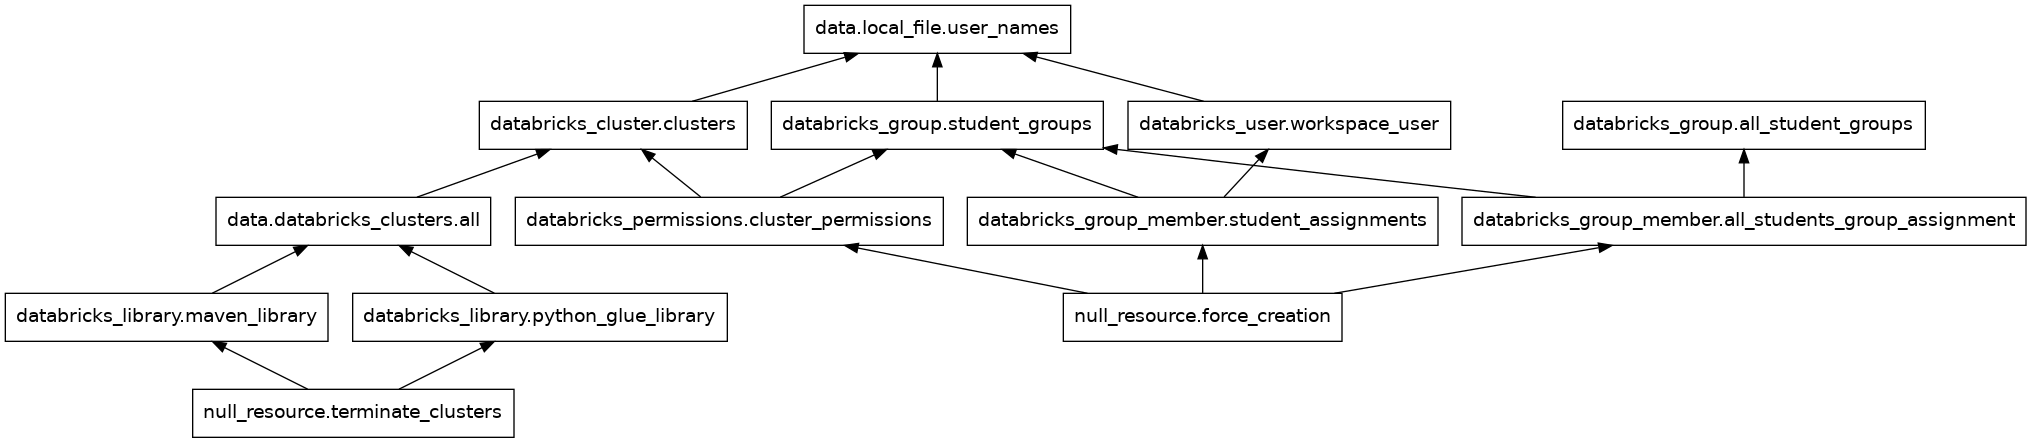
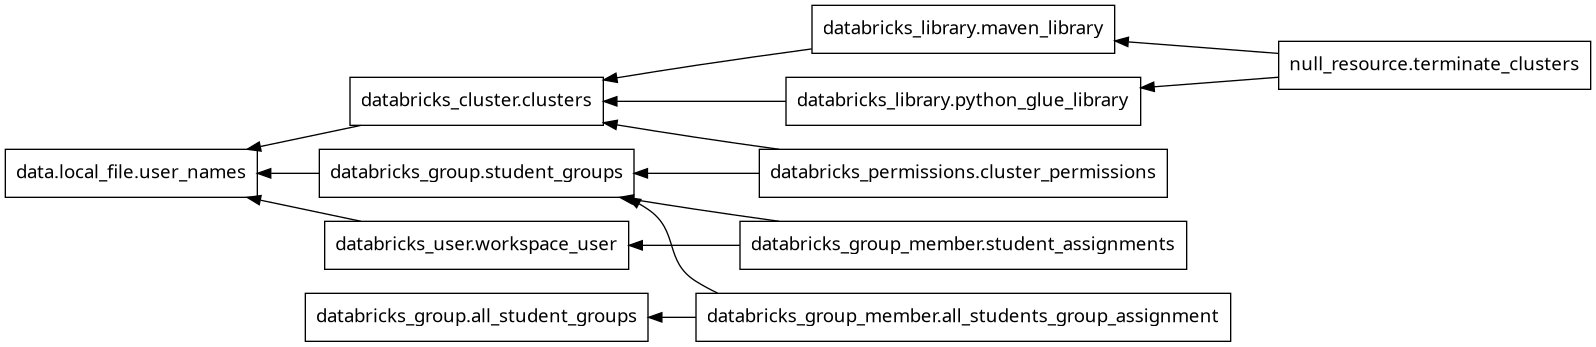
fixed terraform code:  better dependencies

diff --git a/terraform/dbr/readme.md b/terraform/dbr/readme.md
@@ -33,18 +33,24 @@ In practice, the group list is dynamic, so we need to be able to update the setu
 
 <!-- END doctoc generated TOC please keep comment here to allow auto update -->
 
+# Installation
+Tested on ubuntu 24.04 Desktop
+## Install terraform
+from ubuntu repos
+
+## Install databricks cli
+ Use curl:  https://learn.microsoft.com/en-us/azure/databricks/dev-tools/cli/install#curl-install 
 # Usage
 
 1. Download a CSV file from Moodle with 1 or more users (must be email address) in each row. This is an export of the "Students create groups"<br>
-Transform this file using `python convert_moodle_to_tf_format.py path/to/the/csv/file` .
+Transform this file using `cd dbr && python ../convert_moodle_to_tf_format.py path/to/the/csv/file` .
 
 The output is named  "users.csv" <br>
-Place the `users.csv` file in the `terraform/dbr` folder
 
 2. Create a Databricks workspace (I use Azure portal).
 1. generate a Databricks personal token
   - enter the workspace, user settings,  developer tools, manage access tokens, generate new token with short life span (e.g. 2 days).
-  - store it as  `TF_VAR_databricks_token=dapia****` in a **safe** place for env variables. Make sure it persists after the current shell is terminated :)
+  - store it as  `TF_VAR_databricks_token=dapia****` in a **safe** place for env variables. Make sure it persists after the current shell is terminated.
 
 1. login to the correct DBR profile:
   `databricks auth login --host adb-3738544368441327.7.azuredatabricks.net`
@@ -91,6 +97,7 @@ TF_VAR_databricks_host
 
 
 > NOTE: I strongly recommend increasing the default parallelism (10 resources) - e.g. `terraform apply -parallelism=50`
+> `export TF_CLI_ARGS_apply="-parallelism=50"`
 
 
 
@@ -111,7 +118,8 @@ Examine the code in `install_libs.tf`
 # Using the same code to create different environments
 Imagine you want to run the same plan to generate workspaces for two courses. Each of them has different users/clusters and possibly cluster configurations. This is what PROFILES are.
 
-## Profiles
+## DBR Profiles
+A Databricks profile is a set of configuration details—such as credentials, workspace URL, and other settings—used by the Databricks CLI or client libraries to securely connect to and interact with a specific Databricks workspace.
 
 You create profiles in `~/.databrickscfg` :
 ```
@@ -128,13 +136,21 @@ host="adb-3663658524550853.13.azuredatabricks.net"
 token=dapi6***
 ```
 
-### Choosing which profile to run
-And then run `tf apply --profile=lab94290-integration-test` at least in theory. *I could not make it work*, so moved to Workspace method, and left the profile for future work.
 
-## Workspace
-Create a different workspace for production and for testing.
+## TF Workspace
+Create a different TF workspace for production and for testing.
 
-Check that the workspace credentials are working: <br>
+> WARNING:
+`TF Workspace` is a different concept from `DBR workspace`
+
+**Databricks workspace** is the environment where you access Databricks services, run workloads, manage data, and collaborate on notebooks, models, and experiments.
+
+In **Terraform, a workspace** is an isolated state environment. By creating multiple workspaces, you can reuse the same configuration for different environments (e.g., staging, production) while keeping their state data (tracked infrastructure) separate.
+
+> The DBR command below uses credentials from .databrickscfg . **It is not related to the TF workspace** <br>
+> so you can have TF workspace pointing to the testing env, while DBR profile points to the production.
+> 
+Check that the DBR workspace credentials are working: <br>
 `databricks workspace list --profile lab94290-integration-test /Users`
 
 You should see something like 
@@ -144,7 +160,14 @@ ID                Type       Language  Path
 2733568086785891  DIRECTORY            /Users/cnoam@technion.ac.il
 ```
 
-Create a new workspace: `tf workspace new test` # tf is alias for terraform
+- Create a new TF workspace: `tf workspace new test` *# tf is alias for terraform*
+- List existing workspaces (as far as I know, they are local to this computer)<br>
+`tf workspace list`<br>
+- Select workspace: `tf workspace select NAME`
+
+Now that we know what is TF workspace and DBR profile,
+<br>
+**choose the profile in `terraform.tfvars`**
 
 
 # Testing !
@@ -153,7 +176,7 @@ In order to test, use a different environment. Do NOT work on the production.
 Each env has its own state, so they must be separated. 
 
 This can be done using TF workspace, or directories (or more complex methods).
-We are currently using Workspace.
+We are currently using TF Workspace.
 
 [The reason NOT to use directories is it causes code duplication, at least according to my current understanding]
 
@@ -167,10 +190,34 @@ Sometimes it is helpful to see the dependency graph: `tf graph > graph.dot && do
 You will get something like
 ![resource dpendencies](./full_dependency.png)
 
-## Setting and choosing  a workspace
- WORK IN PROGRESS
 
- try `tf workspace --help`
+
+# Troubleshooting
+
+`tf plan` asks for `var.databricks_host` <br>
+--> Make sure the env variables are defined
+e.g. `source ../create_vars.sh`
+
+`tf plan` succeeds, and `tf apply` fails due to auth <br>
+--> Make sure the dbr profile is updated in tfvars
+
+
+## Mismatch between the state known by TF and the actual state in the cloud
+The first method is to import the actual resources info into the TF state. There are a few methods to do it:
+- import a single resource using `tf import`
+- using third party tool `terraformer`
+- using `az_tf_export (??)` which exports Azure resources to TF format
+
+I did not try any of them
+
+Another way, is to delete the resources (e.g. cluster, user, group, permission) from the DBR, and then let TF deploy again.
+To delete users and groups, I used my python script. Be very careful.
+
+## Deleting resources temporarily - for debugging
+For resources known to TF: <br>
+`terraform destroy -target=<resource_type.resource_name>`
+
+
 
 ---
 # History timeline
@@ -218,4 +265,21 @@ I commented the MVN (leaving only py), and still not finished.
 Opened the portal, manually turned on the clusters and then ran the plan --> this time it completed ok.
 
 ==> after cluster creation, do not terminate them. Delay termination after installing libs
+
+
+
+2025-01-05
+on newly formatted machine, I am trying to 'tf apply' and get all sorts of errors.
+
+profile: only when disabling provider "databricks" {} and using the [DEFAULT] section in .da*cfg it agreed to continue.
+
+2025-01-07
+After solving the "credintials of prod used for test so permission denied", I ran tf apply on the test,
+where already there are users and clusters created. 
+But now I am in 'testing-DBR' TF workspace, so all the state from before is unknown, and it attempts to create users and groups and fails because they are exists.
+The clusters are created, since their name is not unique
+
+I changed `tf workspae select default`, and now `tf apply` correctly identify the current resource.
+==> Must be very careful in which workspace I use!!!!
+
 
